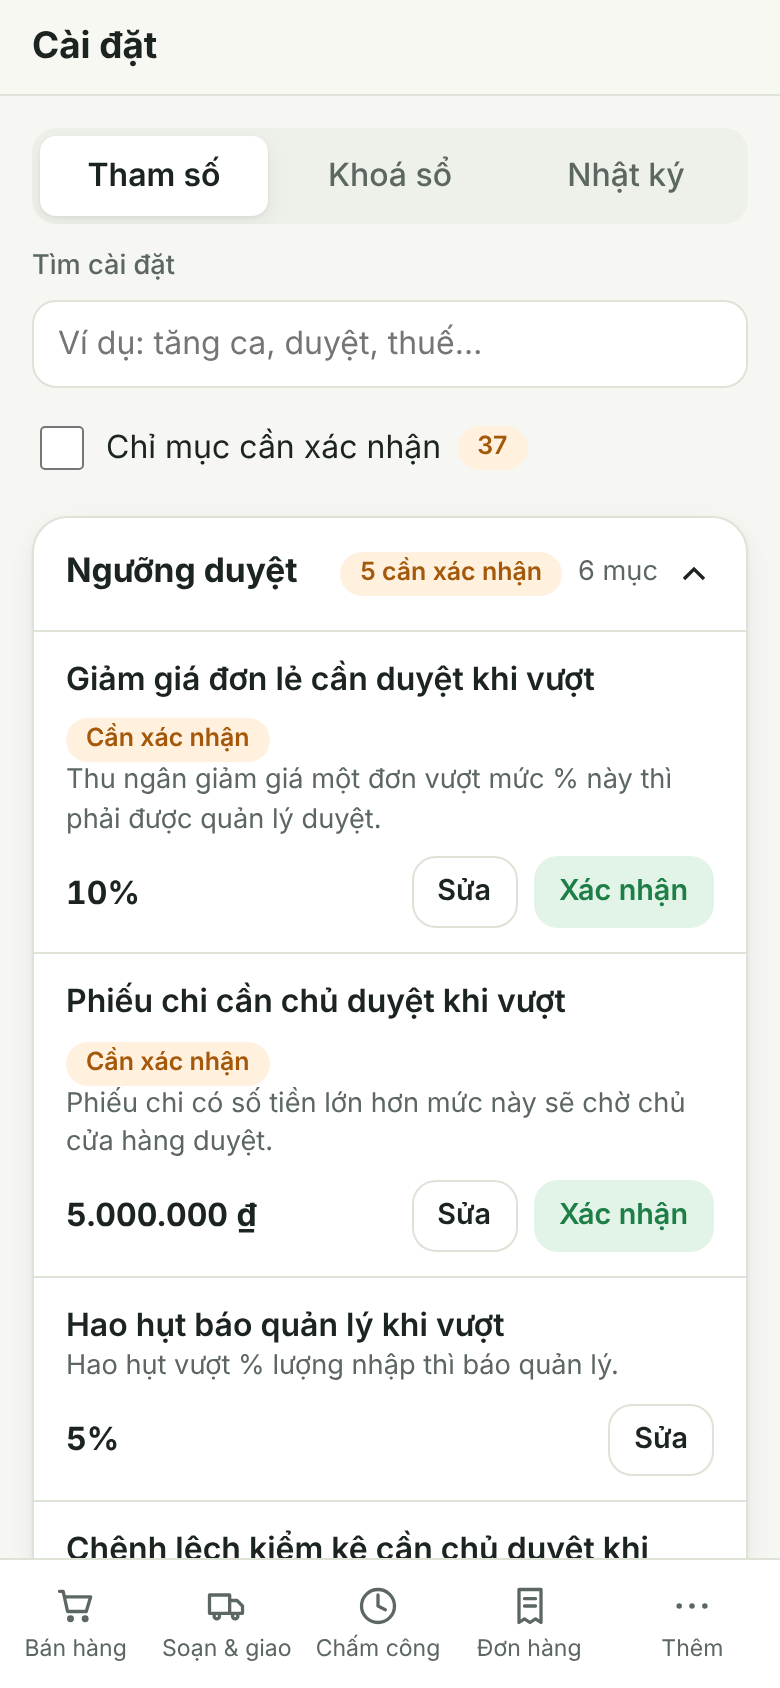
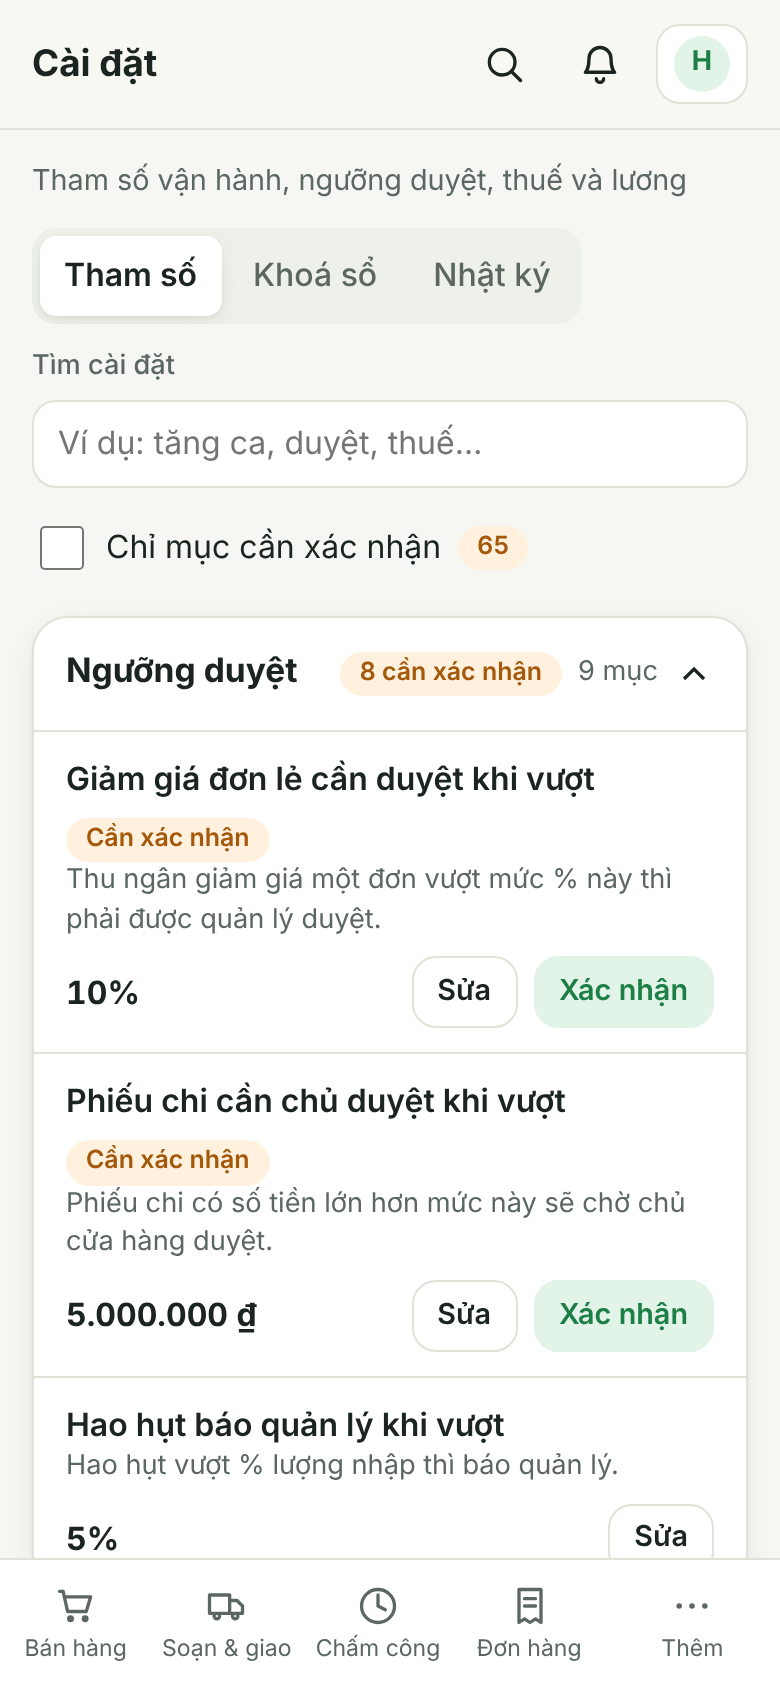
Bảng chấm công: E2E hr-board, sửa E2E settings (11 nhóm tham số), cập nhật HANDOFF
Claude-Session: https://claude.ai/code/session_01Se2aKAteML9TpP6aaRjETn

diff --git a/docs/HANDOFF.md b/docs/HANDOFF.md
@@ -60,6 +60,11 @@ Tài liệu bàn giao trạng thái dự án sau **Đợt 1–4, phần bổ sun
 - **Phân quyền (High)**: kế toán từng tạo được tài khoản *chủ* và khoá được tài khoản chủ qua màn nhân sự; nhật ký & danh sách phiếu chi lộ lương cho quản lý; tự duyệt yêu cầu của chính mình; thu ngân dùng lại phiếu duyệt để bán giá 1đ; thu ngân thấy giá vốn — đã chặn.
 - **Bề mặt công khai**: thêm Workers Rate Limiting (`RL_AUTH`, `RATE_LIMITER`), đăng nhập không lộ tài khoản tồn tại/bị khoá, giới hạn đơn COD chưa xác nhận theo SĐT + tự huỷ sau 72h, chống spam email, chống chèn công thức Excel, crawler đọc có giới hạn byte & chặn URL nội bộ, webhook ký cả timestamp.
 
+### 2.6 Bảng chấm công dạng lưới (26/11/2026)
+- Màn **Bảng chấm công** (`/hr/attendance`, `screens/hr/Board.tsx`) thay cho "Lịch ca" và "Duyệt chấm công" trong menu (hai màn cũ vẫn mở được ở `/hr/schedule`, `/hr/approvals`). Lưới ca × ngày (tuần/tháng, theo ca/theo nhân viên), ô tô màu theo trạng thái, chấm công thủ công một ô hoặc hàng loạt, Huỷ ca / Đổi ca, phạt vi phạm và thưởng theo ca (cộng vào lương), xuất file.
+- Tham số mới nhóm **Chấm công**: chế độ theo ca / theo khung giờ, ân hạn về sớm, tự tính làm thêm theo ngưỡng, quy đổi giờ → công, tự chấm công theo lịch, chấm khi không có ca. Mặc định giữ nguyên cách tính cũ.
+- Hợp đồng và quy tắc: `docs/API-attendance-board.md`. Migration `0031_attendance_board.sql`. Test: `test/hr-board-*.test.ts`, E2E `e2e/hr-board.mjs`.
+
 ### Bảo mật đã có (chi tiết `docs/SECOPS.md`)
 CSP/HSTS cho cả API lẫn HTML, cookie `__Host-` + chống CSRF, rate limit/Turnstile cho website, webhook HMAC + chống phát lại, upload ảnh kiểm magic bytes, staging tách hẳn D1/R2/Queue khỏi production, CI có `npm audit` + gitleaks. Đã vá lỗ hổng zod (nâng lên 4.6.7).
 
